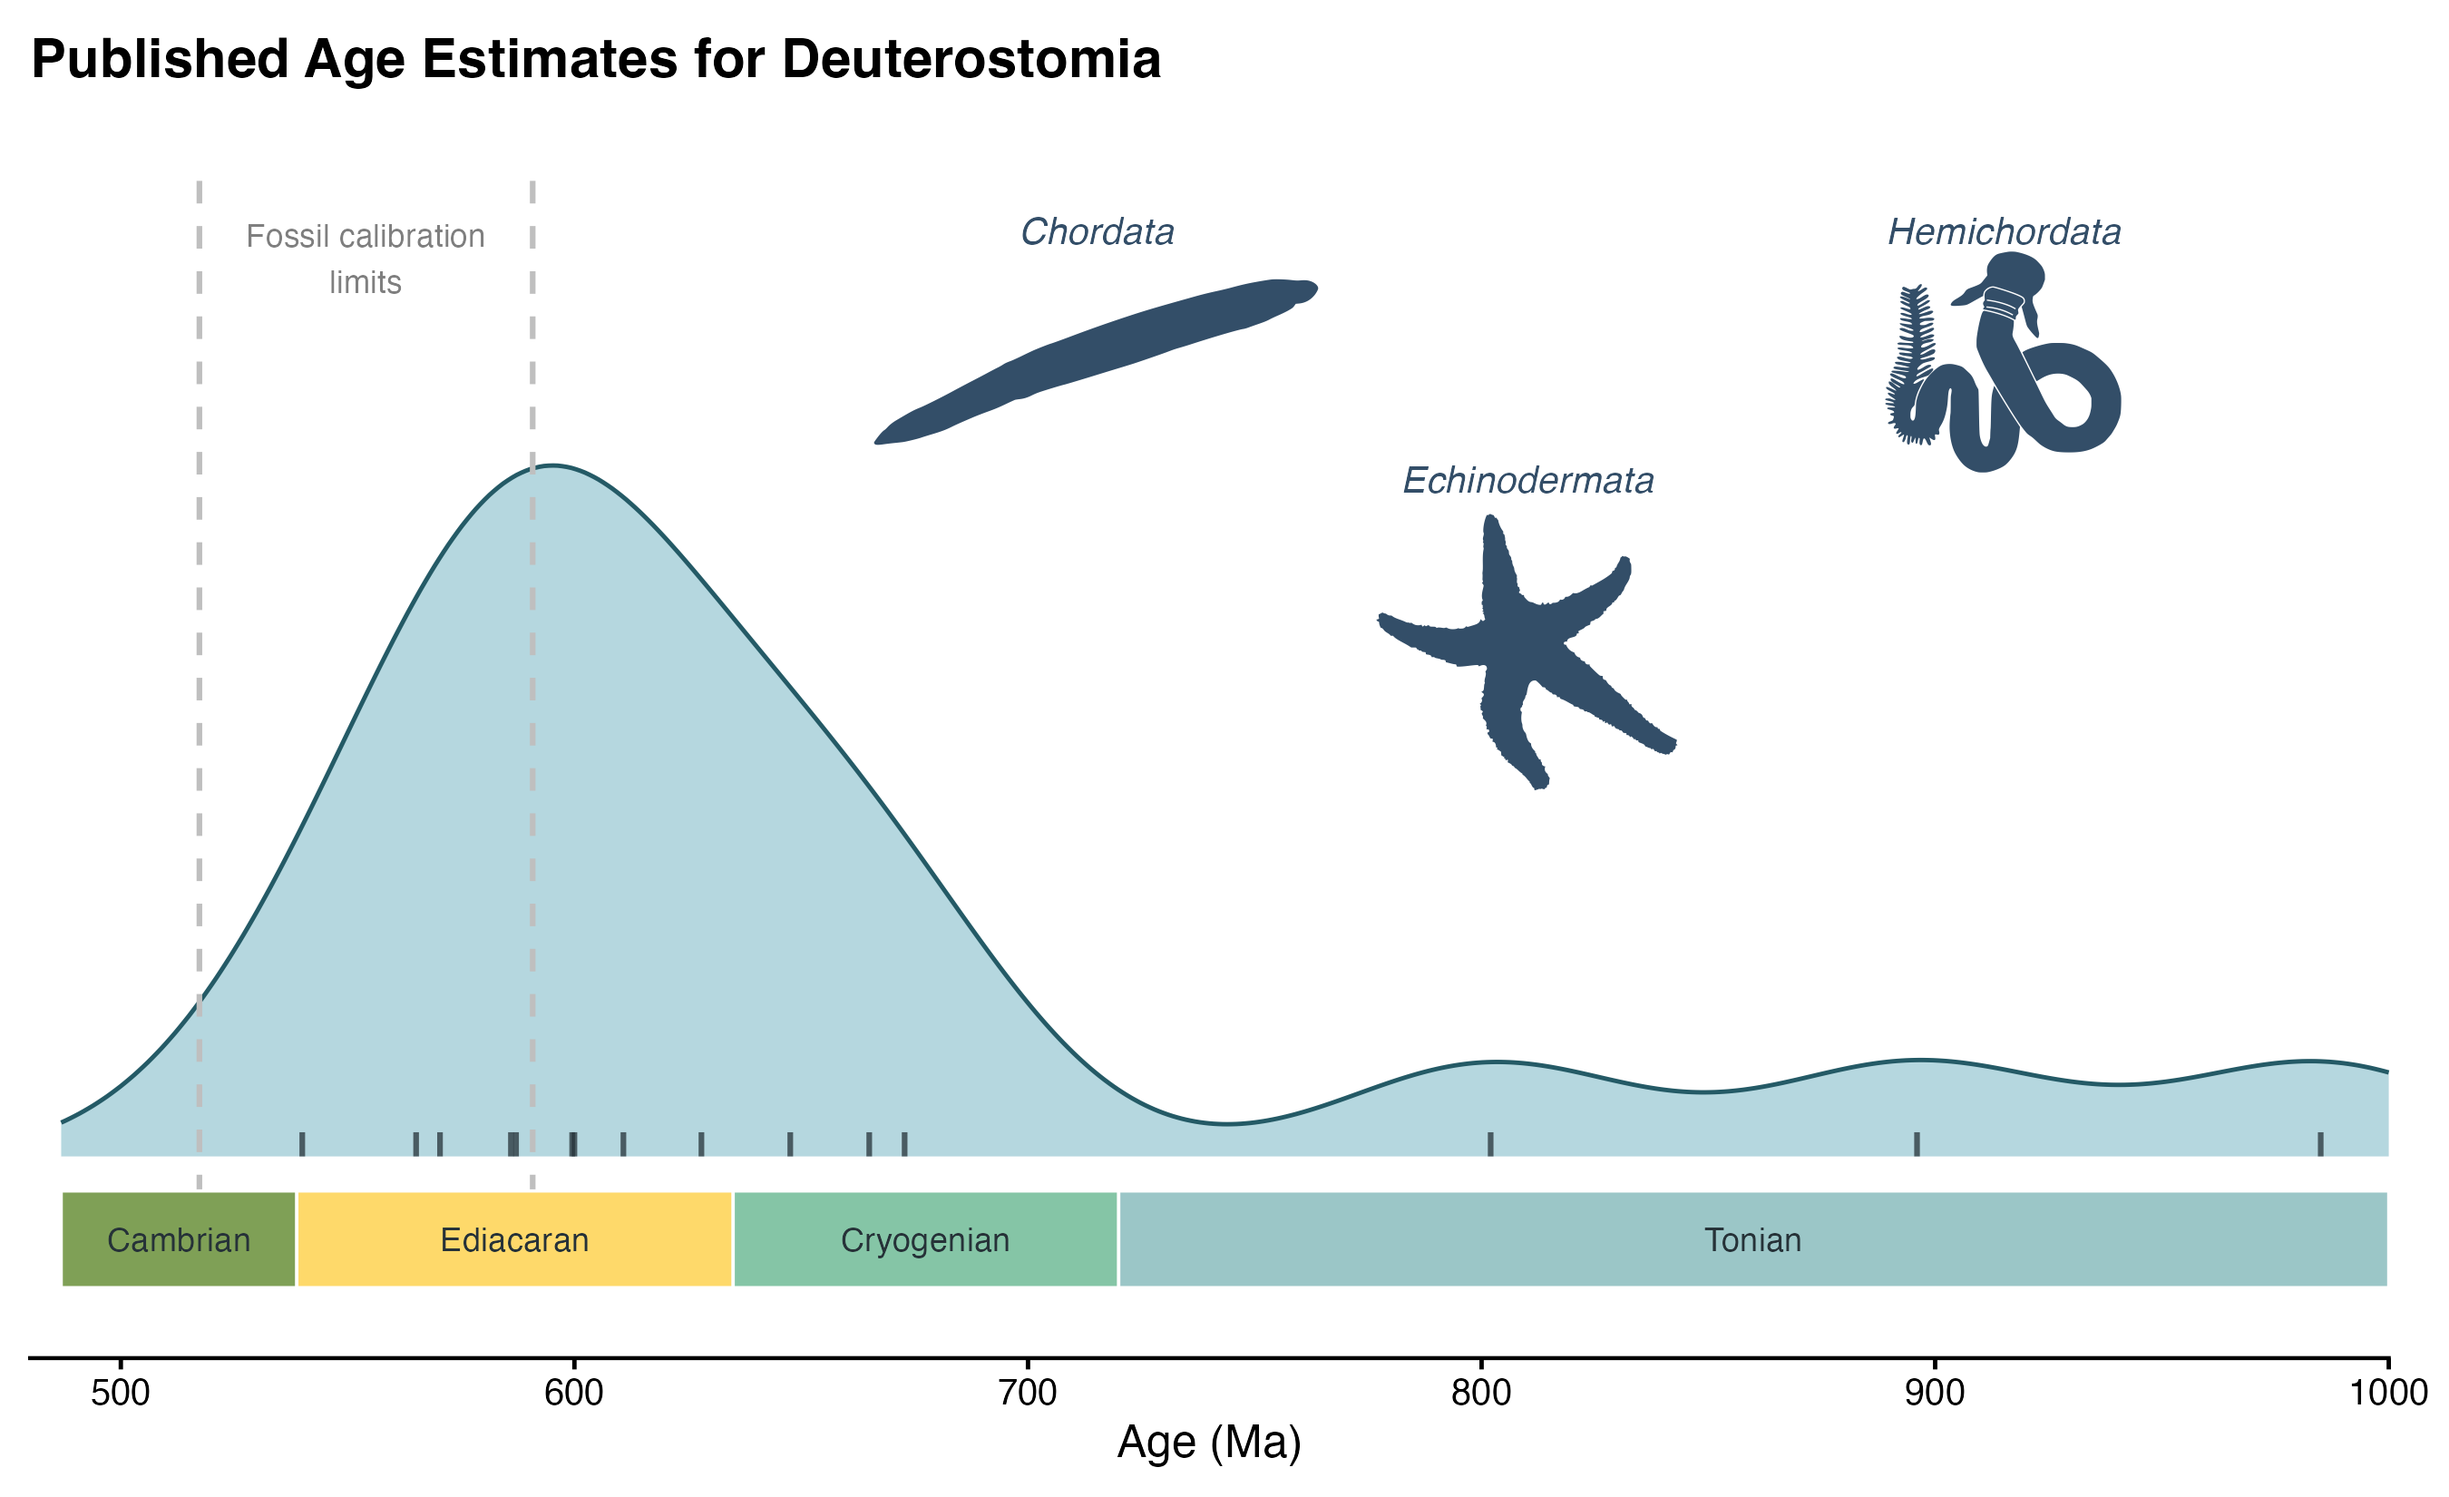
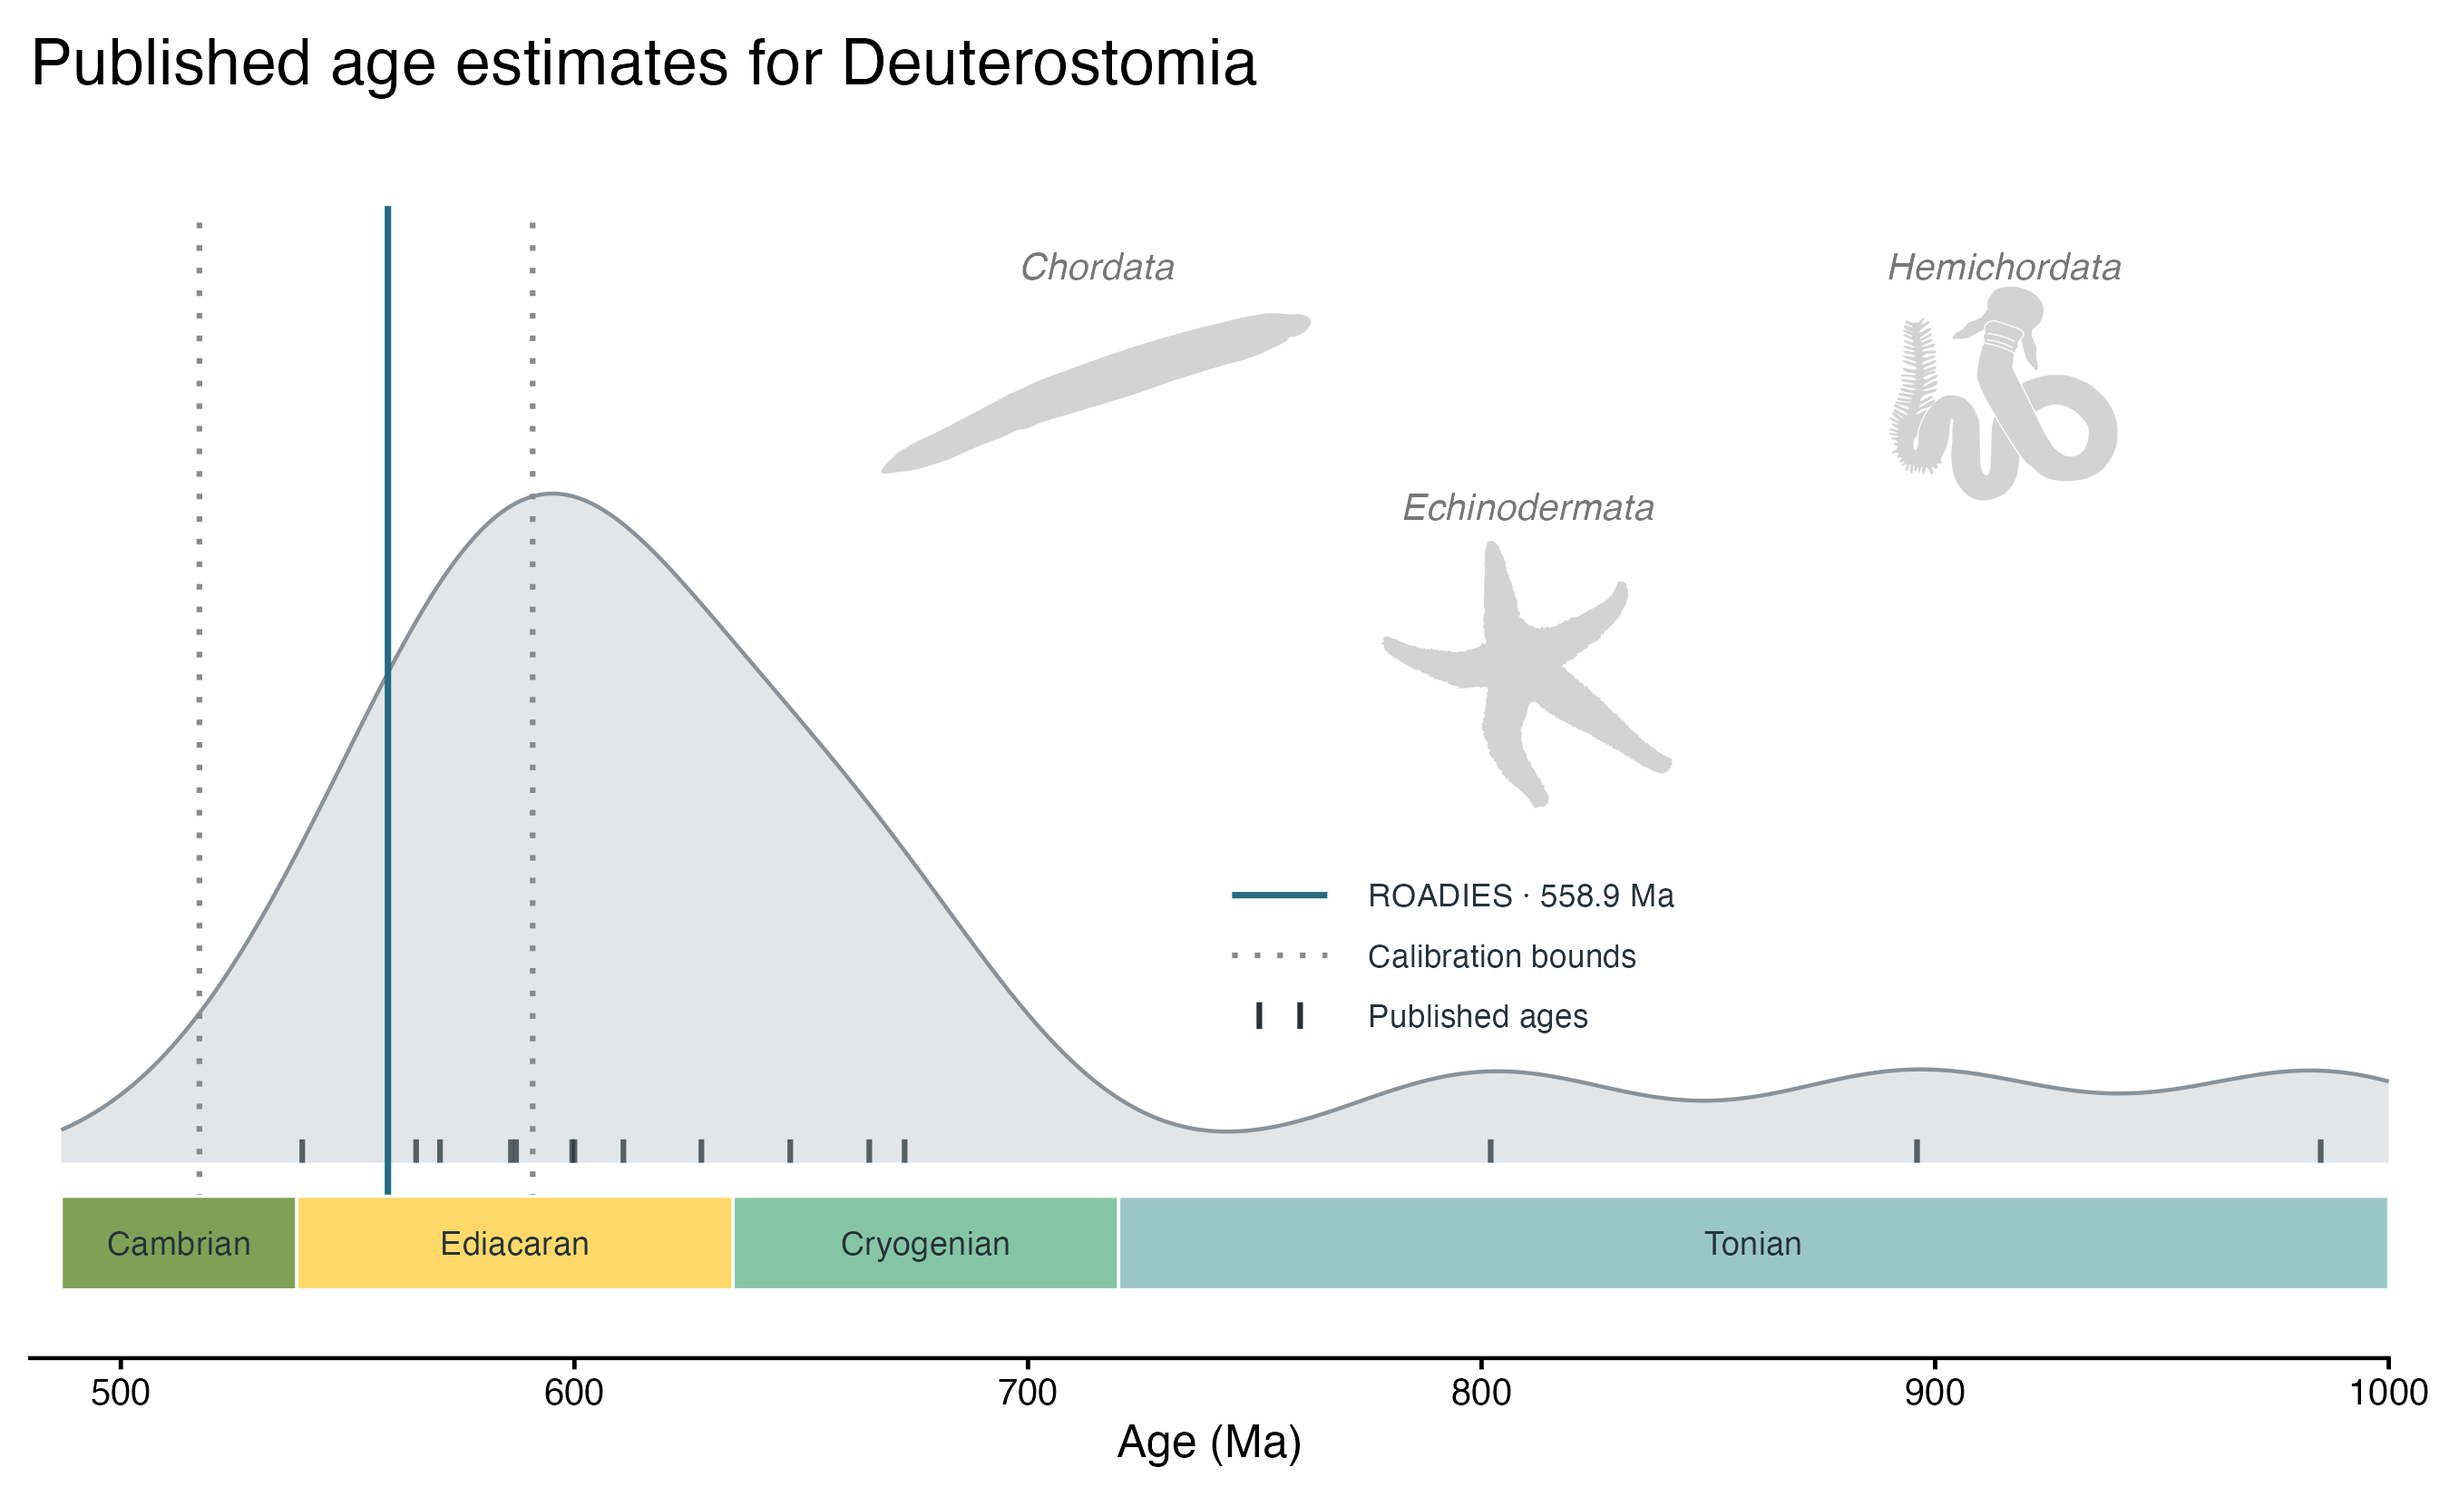
outgroups
polish and harmonize

diff --git a/calibrations/outgroups/deuterostomia.md b/calibrations/outgroups/deuterostomia.md
@@ -54,7 +54,7 @@ CAL identifiers refer to records in the [master calibration list](../master_cali
 
 ### Likelihood checkpoints
 
-We gathered 15 studies supporting a likelihood checkpoint for the root (Deuterostomia) published between 1998 and 2024 (deuterostomia_ages.csv). As discussed by previous authors ([Cunningham et al. 2017](https://doi.org/10.1002/bies.201600120)), early disagreements between the fossil record and molecular divergence times have narrowed with more recent discoveries, interpretations, and methods. As noted above, we rely primarily on the recent framework of [Benton et al. (2015)](http://palaeo-electronica.org/content/fc-1) and [Carlisle et al. (2024)](https://doi.org/10.1126/sciadv.adp7161) to interpret the Cambrian and Ediacaran fossil record and derive well-constrained ages for the emergence of deuterostomes between 517–591Ma. Of the 15 studies evaluated here, only 5 fall within that interval and the modal estimate is ~600Ma. However, most of the older ages are from older studies, before the recent movement towards reconciliation of fossil and molecular estimates. Consequently, we are confident in the younger and narrower bounds used here.
+We gathered 15 studies supporting a likelihood checkpoint for the root (Deuterostomia) published between 1998 and 2024 ([deuterostomia_ages.csv](deuterostomia_ages.csv)). As discussed by previous authors ([Cunningham et al. 2017](https://doi.org/10.1002/bies.201600120)), early disagreements between the fossil record and molecular divergence times have narrowed with more recent discoveries, interpretations, and methods. As noted above, we rely primarily on the recent framework of [Benton et al. (2015)](http://palaeo-electronica.org/content/fc-1) and [Carlisle et al. (2024)](https://doi.org/10.1126/sciadv.adp7161) to interpret the Cambrian and Ediacaran fossil record and derive well-constrained ages for the emergence of deuterostomes between 517–591Ma. Of the 15 studies evaluated here, only 5 fall within that interval and the modal estimate is ~600Ma. However, most of the older ages are from older studies, before the recent movement towards reconciliation of fossil and molecular estimates. Consequently, we are confident in the younger and narrower bounds used here.
 
 ![Deuterostomia ages](deuterostomia_ages_density.png)
 
